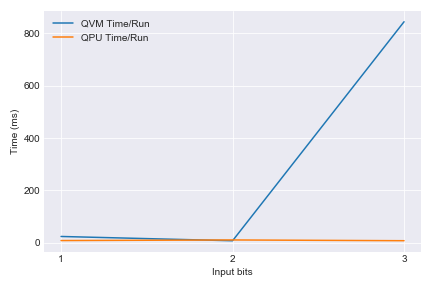
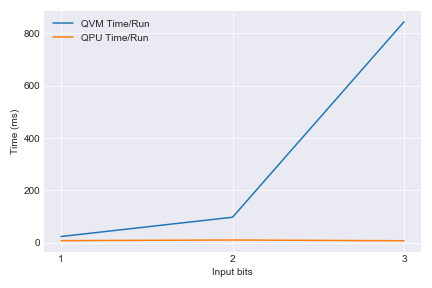
notebook additions

Changed region(s): [[0.5417, 0.1875, 0.8727, 0.7812], [0.1505, 0.75, 0.5718, 0.8438], [0.8727, 0.0938, 0.9329, 0.1875]]

diff --git a/qpu_server/post.py b/qpu_server/post.py
@@ -33,11 +33,15 @@ def main(args):
         send_jobs(jobs, args.email, args.server, args.shots)
 
 def check_program(program, shots, lattice):
-    from pyquil import get_qc
+    from pyquil import get_qc, Program
     from pyquil.parser import parse_program
     from pyquil.api import local_qvm
 
     p = parse_program(program)
+    start = time.time()
+    Program().inst(program)
+    end = time.time()
+    print(f'INST time: {end-start}')
     with local_qvm():
         qc = get_qc(lattice, as_qvm=True)
         return qc.run_and_measure(p, trials=shots)

diff --git a/qpu_server/results/notebooks/utils.py b/qpu_server/results/notebooks/utils.py
@@ -97,7 +97,3 @@ def y_error(qvm, qpu):
 
 def time_per_shot(shots20, shots25):
     return (shots25 - shots20) / 5
-
-
-        
-
